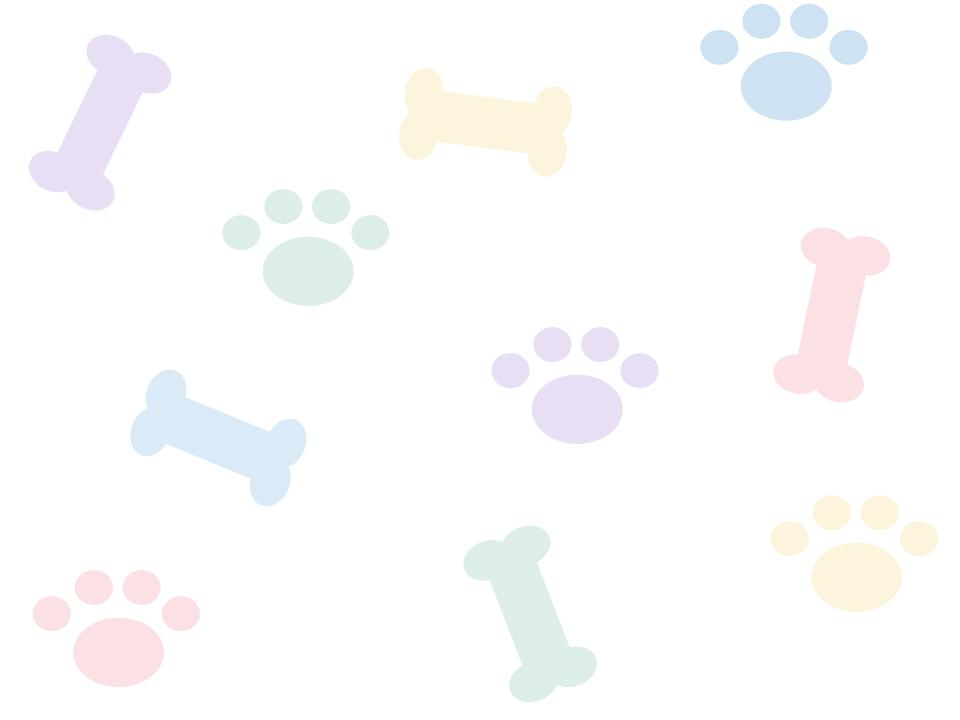
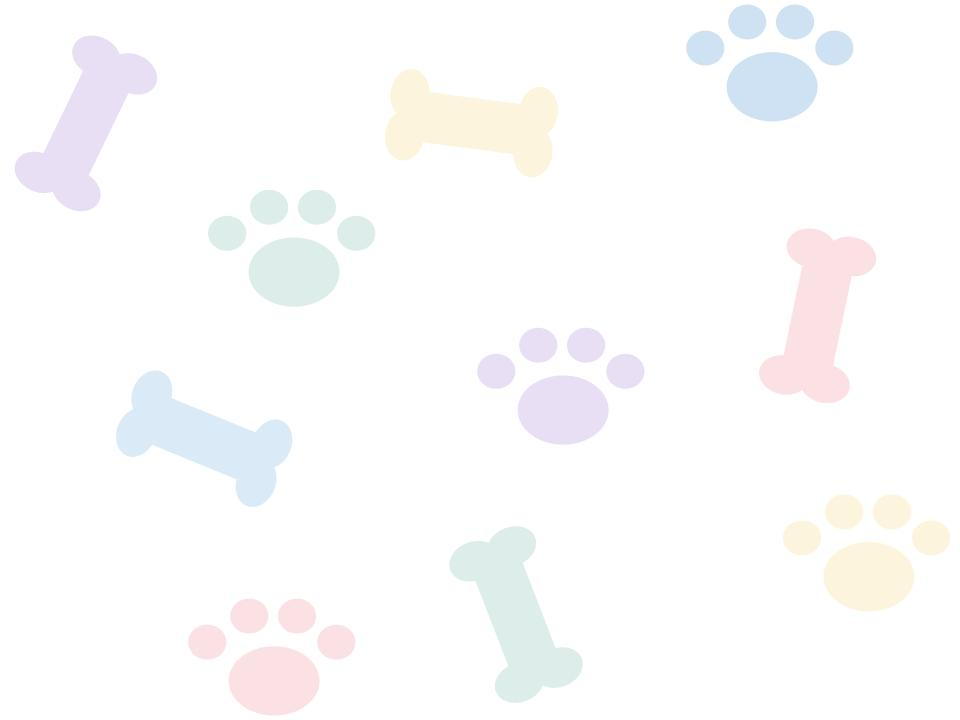
add dark mode toggle

diff --git a/src/index.css b/src/index.css
@@ -5,7 +5,20 @@ body {
     sans-serif;
   -webkit-font-smoothing: antialiased;
   -moz-osx-font-smoothing: grayscale;
-  background-image: url("./boneImage2.jpg");
+  background-image: url("./boneImage.jpg");
+  color: #7D4A50;
+}
+
+.App.dark {
+  --font-color: #6F6B75;
+  --background: url("./boneImageDark.jpg");
+  --background--light: rgb(80, 80, 80);
+  transition: all 0.3s;
+}
+
+.App {
+  background: var(--background);
+  color: var(--font-color);
 }
 
 code {
@@ -20,26 +33,50 @@ header {
   font-size: 30px;
 }
 
+.header.purple {
+  background-color: #E8DFF5;
+}
+
 .dog-list {
   text-align: center;
 }
 
+.dogsForAdopt {
+  font-size: 30px;;
+}
+
+.dogsForAdopt.dark {
+  color: white;
+}
+
 .dog-item {
   margin-left: 70px;
-
 }
 
 .card:hover {
-  box-shadow: 0 8px 30px 0 rgba(0,0,0,0.2);
+  box-shadow: 0 8px 20px 0 rgba(0,0,0,0.2);
 }
 
 .card {
   background: #FCE1E4;
-  box-shadow: 0 4px 8px 0 #DAEAF6;
+  box-shadow: 0 4px 5px 0 #E8DFF5;
   transition: 0.3s;
   width: 85%;
   margin: 25px;
   padding: 15px;
+}
+
+.card.purple {
+  background: #E8DFF5;
+  box-shadow: 0 4px 5px 0 #E8DFF5;
+  transition: 0.3s;
+  width: 85%;
+  margin: 25px;
+  padding: 15px;
+}
+
+ul {
+  height: 2100px;
 }
 
 li {

diff --git a/src/Components/DogList.js b/src/Components/DogList.js
@@ -2,7 +2,7 @@ import DogItem from "./DogItem"
 import Filter from "./Filter"
 import {useState} from "react"
 
-function DogList({dogs})
+function DogList({isDarkMode, onDarkModeClick, pinkCard, dogsForAdopt, dogs})
 {
     const [selectedDogs, setSelectedDogs] = useState("all")
 
@@ -25,7 +25,10 @@ function DogList({dogs})
 
     return(
         <div className="dog-list">
-            <h2>Dogs for adoption: </h2>
+            <h2 className={dogsForAdopt}>Dogs for adoption: </h2>
+            <button onClick={onDarkModeClick}>
+                {isDarkMode ? "Light" : "Dark"} Mode
+            </button>
             <div class="filter">
                 <Filter onDogChange={handleDogChange}/>
             </div>
@@ -33,7 +36,7 @@ function DogList({dogs})
                 {dogsToDisplay.map((e) =>
                 (
                     <li>
-                        <DogItem key={e.id} name={e.name} breed={e.breed} image={e.image}></DogItem>
+                        <DogItem key={e.id} name={e.name} breed={e.breed} image={e.image} pinkCard={pinkCard}></DogItem>
                     </li>
                 ))}
             </ul>

diff --git a/src/Components/App.js b/src/Components/App.js
@@ -1,12 +1,27 @@
 import Header from "./Header"
 import DogList from "./DogList"
 import dogs from "../Data/dogs"
+import {useState} from "react"
 
 function App() {
+
+  const [isDarkMode, setIsDarkMode] = useState(false);
+
+  function handleDarkMode()
+  {
+    setIsDarkMode((isDarkMode) => !isDarkMode)
+  }
+
+
+  const appClass = isDarkMode ? "App dark" : "App"
+  const dogsForAdopt = isDarkMode ? "dogsForAdopt dark" : "dogsForAdopt"
+  const pinkHeader = isDarkMode ? "header purple" : "header"
+  const pinkCard = isDarkMode ? "card purple" : "card"
+
   return (
-    <div className="App">
-      <Header />
-      <DogList dogs={dogs}/>
+    <div className= {appClass}>
+      <Header isPink={pinkHeader}/>
+      <DogList isDarkMode={isDarkMode} onDarkModeClick = {handleDarkMode} pinkCard={pinkCard} dogsForAdopt={dogsForAdopt} dogs={dogs}/>
     </div>
   );
 }

diff --git a/src/Components/DogItem.js b/src/Components/DogItem.js
@@ -1,7 +1,7 @@
-function DogItem({name, breed, image})
+function DogItem({name, breed, image, pinkCard})
 {
     return(
-        <div className="card">
+        <div className={pinkCard}>
             <img src={image}></img>
             <div className="container">
                 <h2>{name}</h2>

diff --git a/public/index.html b/public/index.html
@@ -26,7 +26,7 @@
     -->
     <title>React App</title>
   </head>
-  <body>
+  <body class="back">
     <noscript>You need to enable JavaScript to run this app.</noscript>
     <div id="root"></div>
     <!--

diff --git a/src/Components/Header.js b/src/Components/Header.js
@@ -1,7 +1,7 @@
-function Header()
+function Header({isPink})
 {
     return(
-        <header>
+        <header className={isPink}>
             <h1>ACPSA</h1>
         </header>
     )
